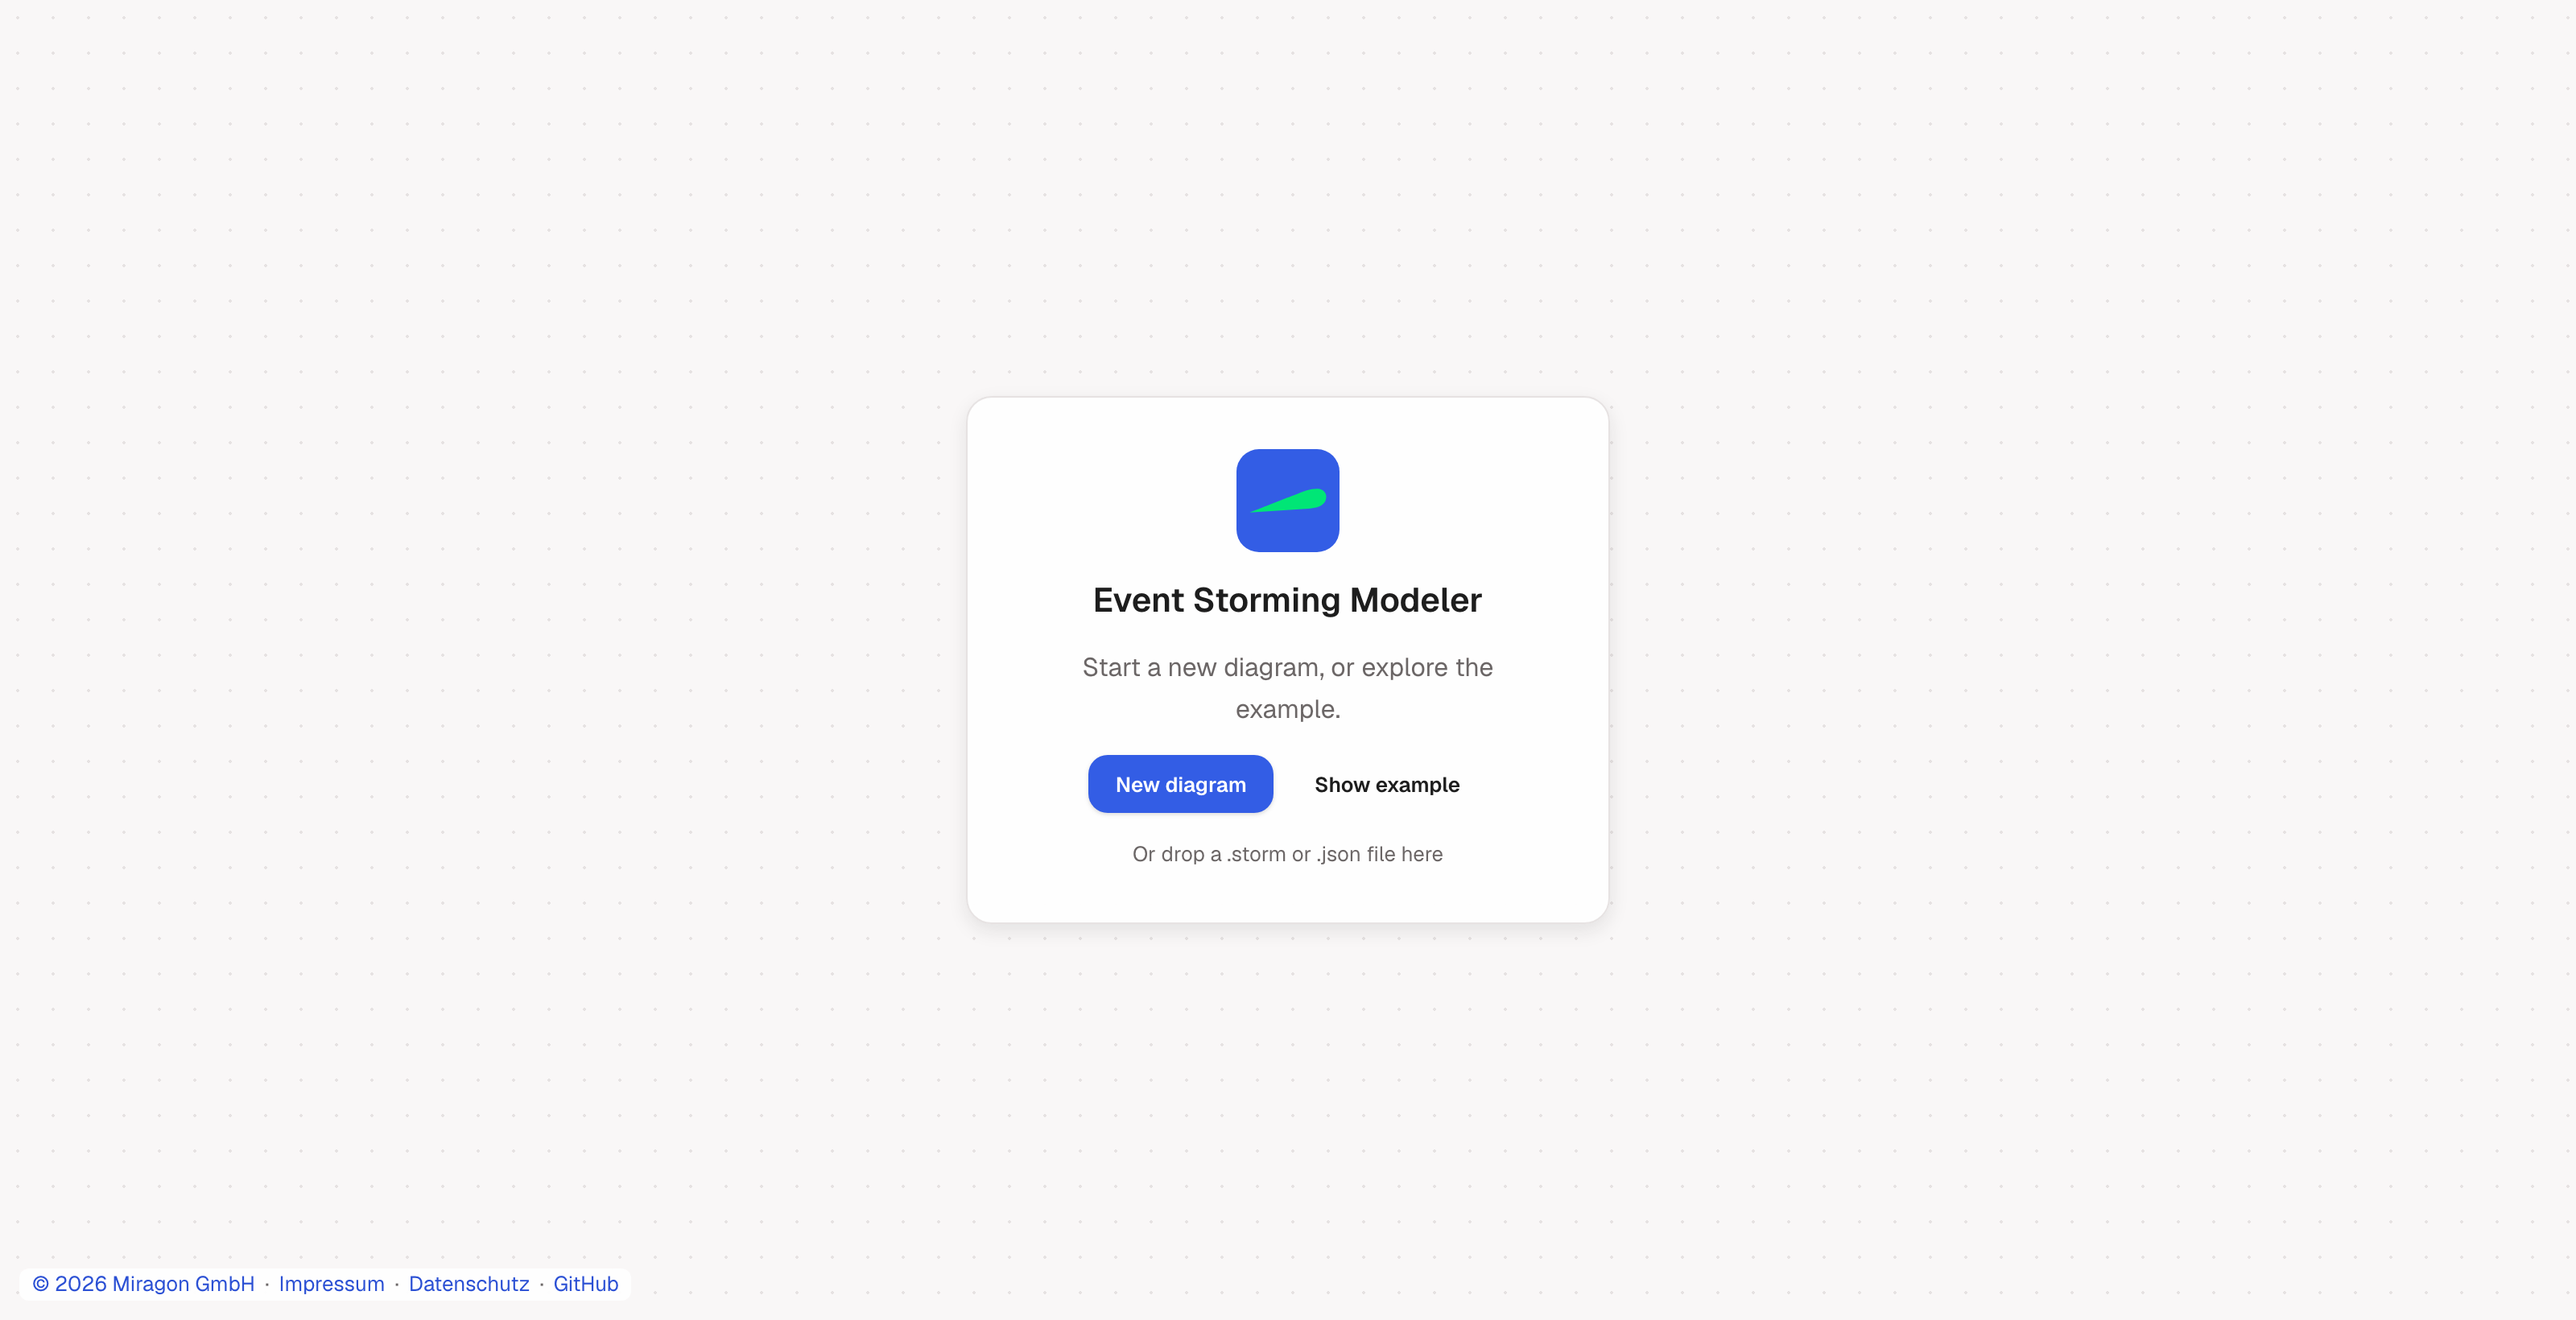
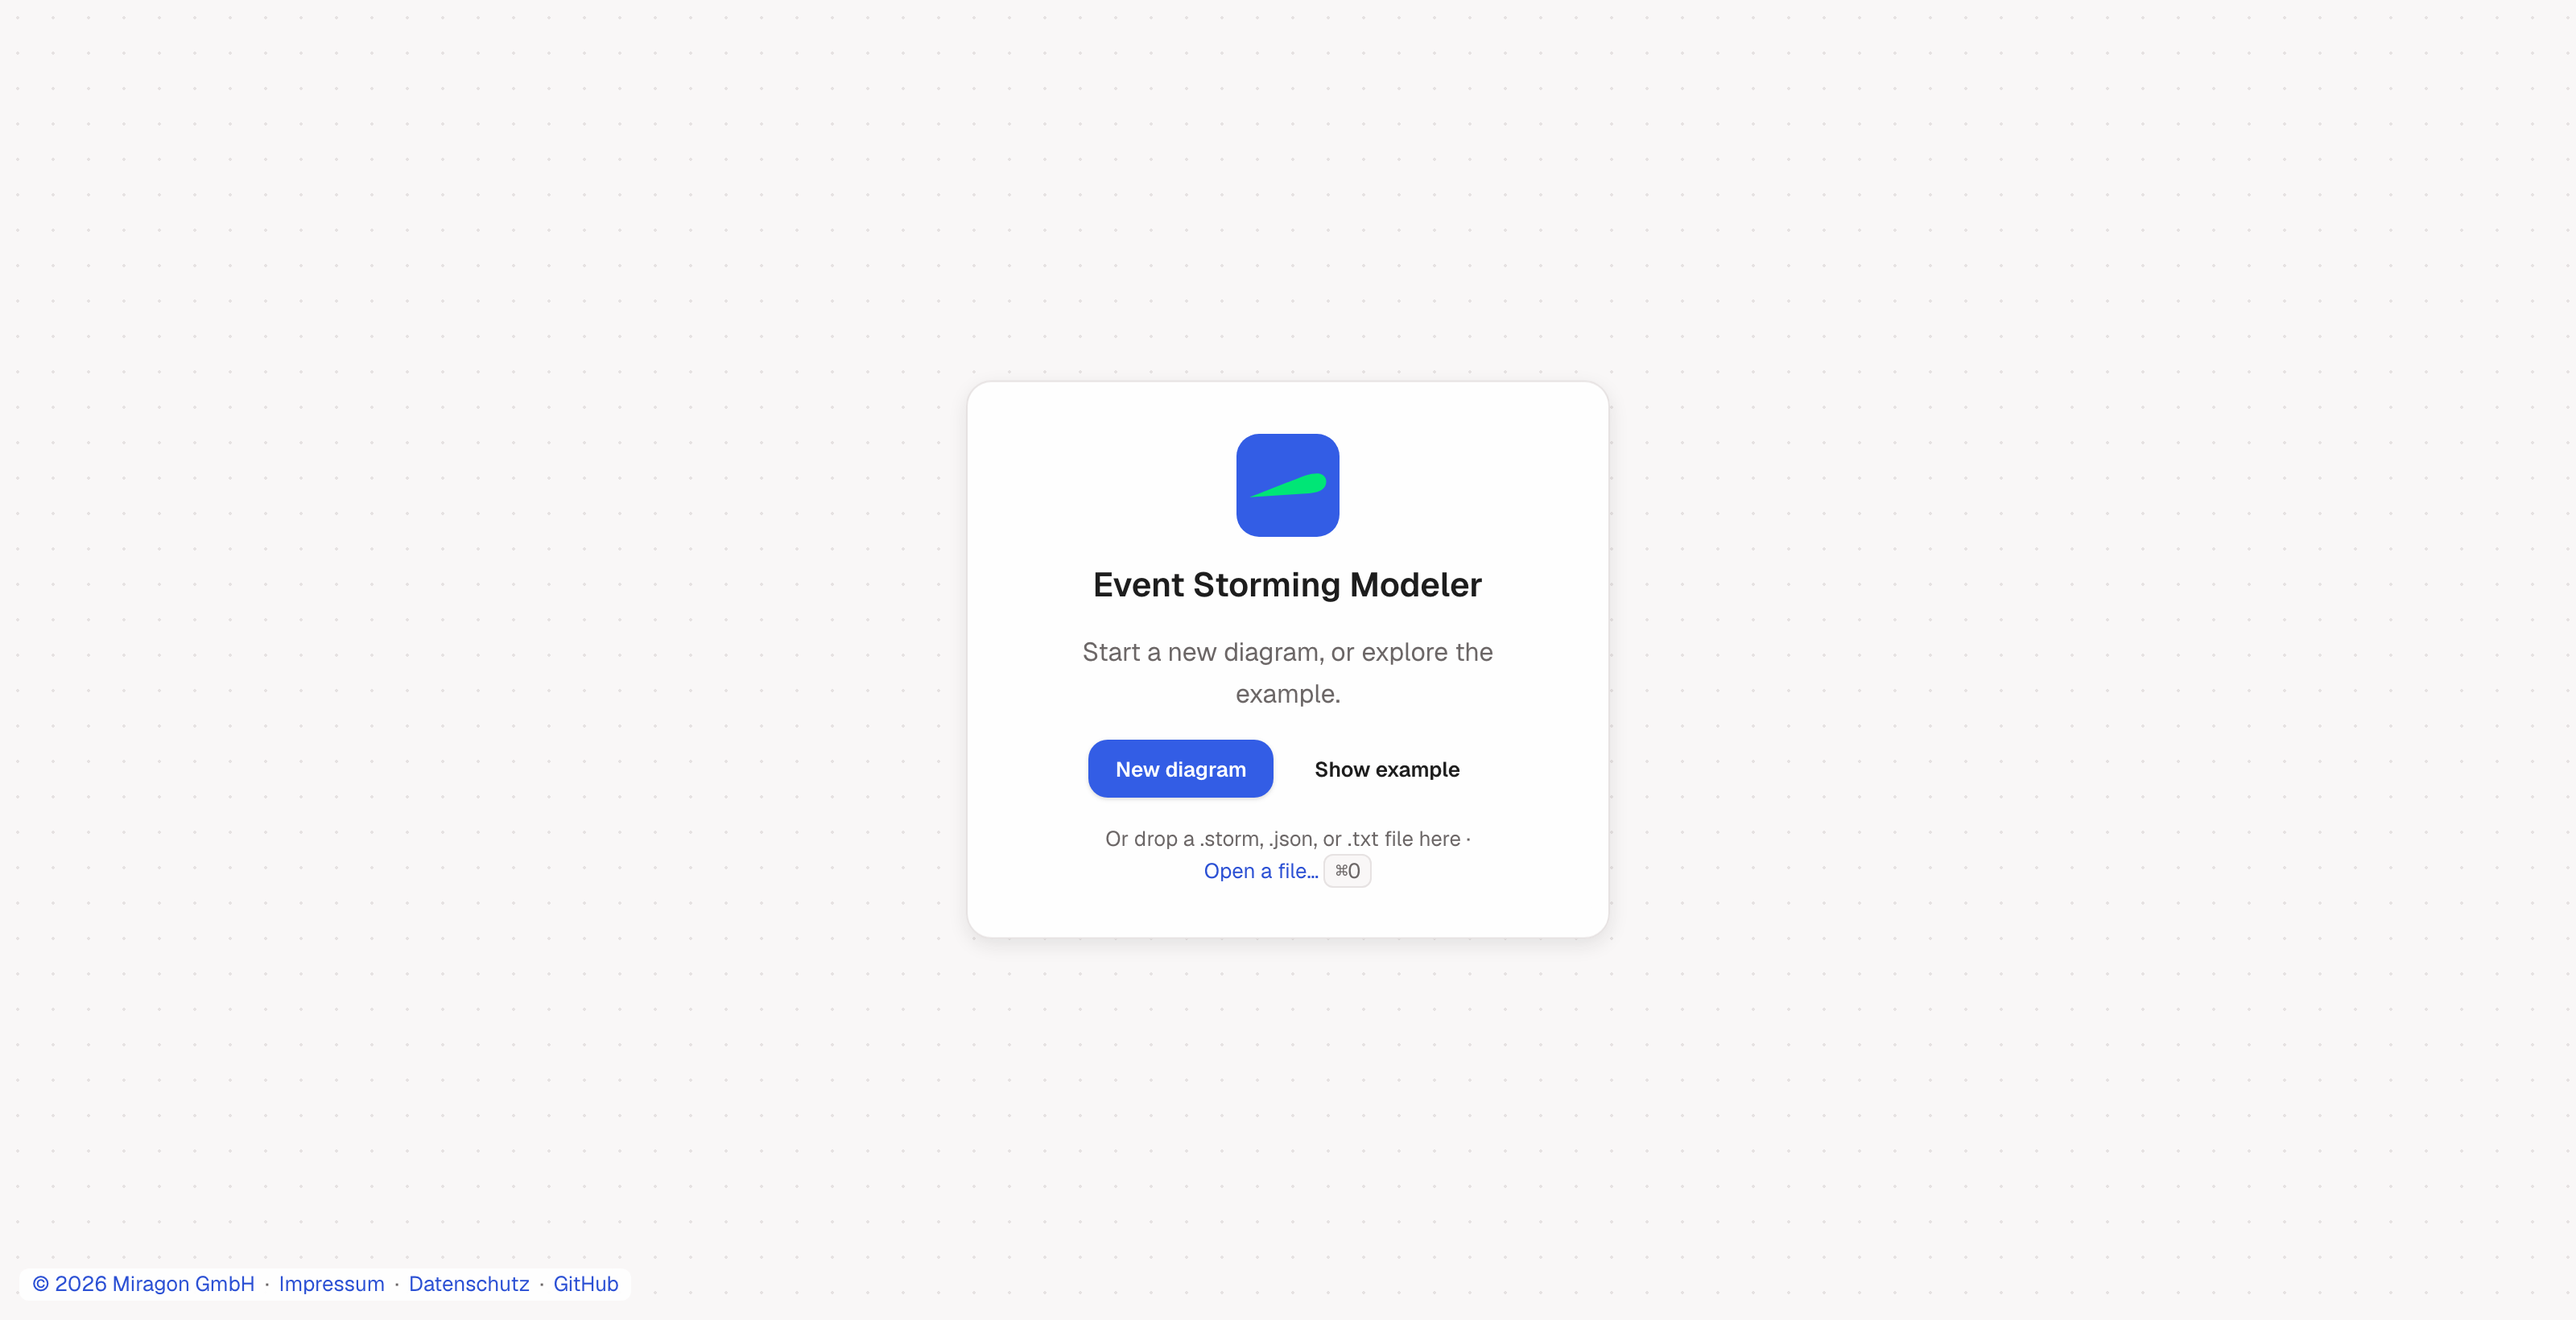
docs: describe the reviewed web app
The web app's README names the shared exports, the undo offer with
Cmd/Ctrl+Z, the tab title, the readable findings and the build check;
the root README's interactions add .txt, the start screen's Open link and
the web app's undo of a replaced board.

Changed region(s): [[0.4062, 0.311, 0.5938, 0.6841]]

diff --git a/README.md b/README.md
@@ -84,9 +84,9 @@ accepts an optional `(color #hex)` override.
 | Copy / paste               | `Ctrl/Cmd+C`, `Ctrl/Cmd+V` — paste attaches to the cursor; click places, `Esc` cancels                                                                                                           |
 | Duplicate (in place)       | `Ctrl/Cmd+D`                                                                                                                                                                                     |
 | Nudge selection            | Arrow keys (`Shift` = coarse)                                                                                                                                                                    |
-| Undo / redo                | `Ctrl/Cmd+Z` / `Ctrl/Cmd+Shift+Z` (in VS Code the document's own undo)                                                                                                                           |
+| Undo / redo                | `Ctrl/Cmd+Z` / `Ctrl/Cmd+Shift+Z` (in VS Code the document's own undo); in the web app `Ctrl/Cmd+Z` also takes back a replaced board while the canvas has nothing else to undo                   |
 | Zoom                       | `Ctrl/Cmd` + `+` / `-`, `Ctrl/Cmd+0` sets 100%, `Shift+1` fits; controls bottom-right                                                                                                            |
-| Open / save (web app)      | `Ctrl/Cmd+O` opens a `.storm` or `.json` file, `Ctrl/Cmd+S` downloads the `.storm` file; a file dropped anywhere on the page opens                                                               |
+| Open / save (web app)      | `Ctrl/Cmd+O` (or "Open a file…" on the start screen) opens a `.storm`, `.json` or `.txt` file, `Ctrl/Cmd+S` downloads the `.storm` file; a file dropped anywhere on the page opens               |
 | All shortcuts              | Menu → "Keyboard shortcuts…"                                                                                                                                                                     |
 | Edit label                 | Double-click a sticky (`Cmd/Ctrl+Enter` saves)                                                                                                                                                   |
 | Format a note              | Bold/italic/bullets via the floating toolbar or `Cmd/Ctrl+B` / `Cmd/Ctrl+I`, text alignment via the toolbar's align buttons; stored as a tiny Markdown subset in the label                       |

diff --git a/apps/webapp/README.md b/apps/webapp/README.md
@@ -4,9 +4,11 @@
 
 A browser editor for [Event Storming](https://www.eventstorming.com/) boards in the shared Miragon
 modeler chrome ([`@miragon/modeler-shell`](https://www.npmjs.com/package/@miragon/modeler-shell)),
-the same as in the VS Code extension: URL sharing ("Share"), opening and dropping `.storm`/`.json`
-files, and PNG, SVG, JSON and `.storm` export. The demo app for the `@miragon/event-storming-*`
-packages.
+the same as in the VS Code extension: URL sharing ("Share"), opening and dropping `.storm`, `.json`
+and `.txt` files, and the VS Code extension's exports (PNG, SVG, the transparent 4× PNG, JSON) plus
+`.storm`. Replacing a board offers it back ("Board replaced · Undo", or `Ctrl/Cmd+Z`), the tab names
+the board, and import findings are listed under the problems pill in plain words. The demo app for
+the `@miragon/event-storming-*` packages.
 
 **[Live demo](https://event-storming.modeler.miragon.io)**
 
@@ -21,6 +23,12 @@ npm install
 npm run dev:webapp         # named HTTPS URL via Portless — one-time setup in CONTRIBUTING.md
 npm run dev:webapp:plain   # plain Vite, http://localhost:5180
 ```
+
+## Build
+
+`npm run build:webapp` builds what Netlify ships; `npm run check:build -w apps/webapp` then checks
+that `dist/index.html` carries the mode markup (theme-color, contrast line, `cd-shell-document`) and
+the bundle keeps the shell's Lucide licence comment. CI runs both.
 
 ## License
 
